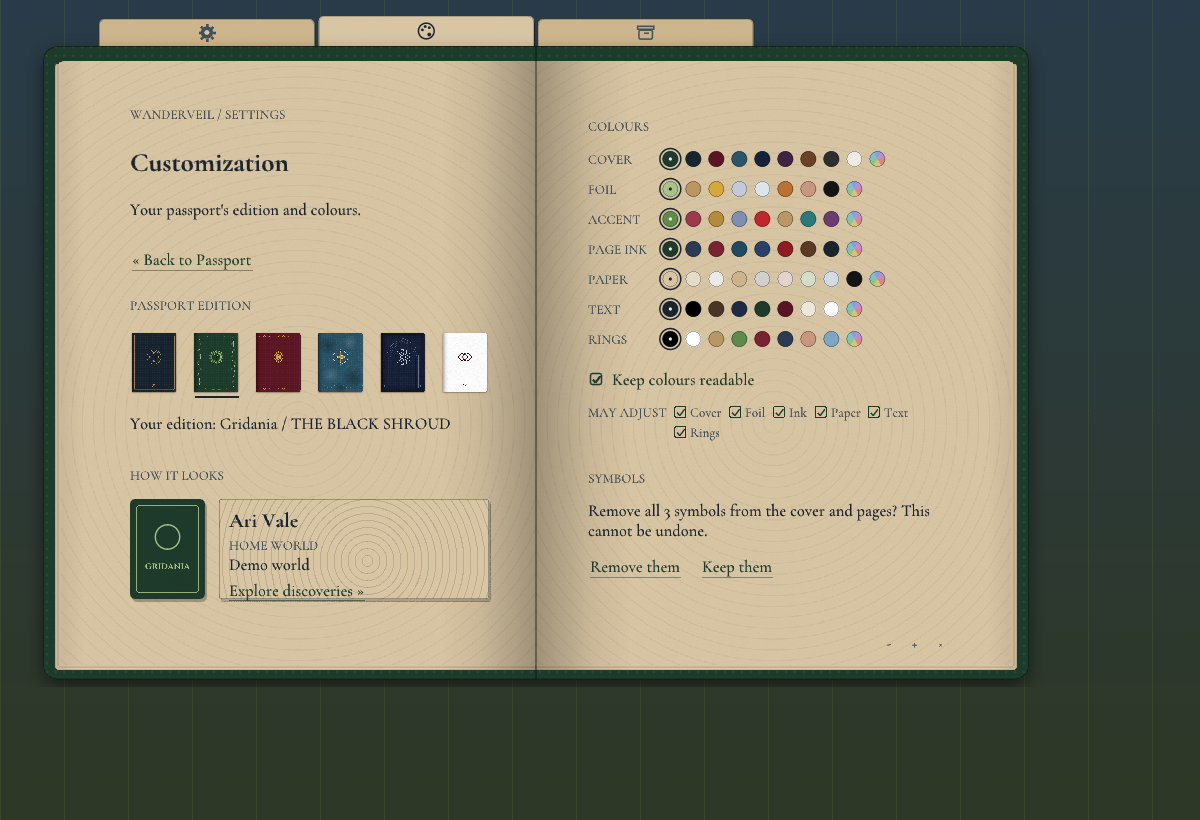
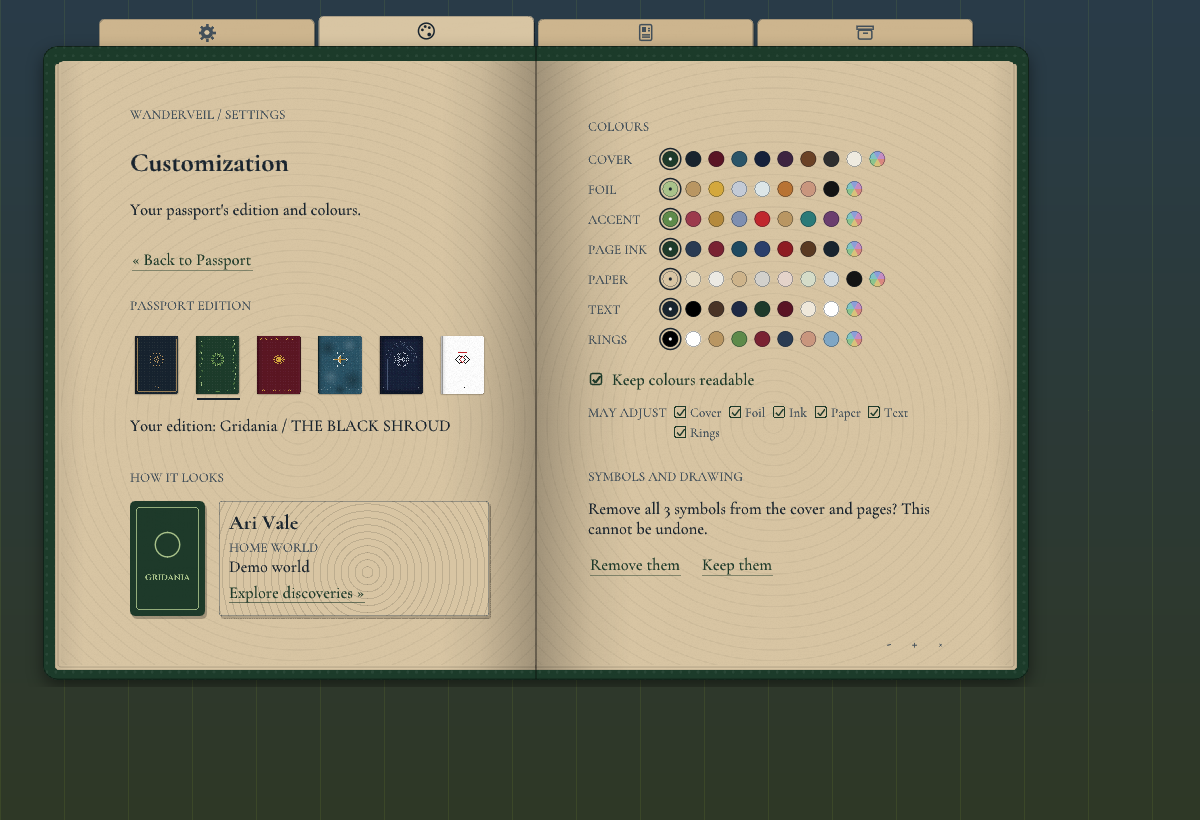
fix(ui): stop the eyedropper crash and keep symbol colours, with ways to clear drawing

diff --git a/src/Wanderveil/UI/BookShell.cs b/src/Wanderveil/UI/BookShell.cs
@@ -43,8 +43,9 @@ internal sealed class BookShell(IBookAssets assets, PassportIdentity profile, IR
     private readonly EditionAssets editions = (EditionAssets)(assets = new EditionAssets(assets, () => identity!.Identity.Edition.Id));
     // An edition picked in Settings, waiting for the holder to confirm the change.
     private string? pendingEdition;
-    // Remove all symbols, picked in Settings and waiting for the holder to confirm it.
+    // Remove all symbols, picked in Settings and waiting for the holder to confirm it; likewise all drawing.
     private bool confirmClearSymbols;
+    private bool confirmClearDrawing;
     // An edition the passport is being exchanged for: the old book slides away, and once it is gone the new
     // edition's book is summoned in its place.
     private string? swapTo;
@@ -104,6 +105,7 @@ internal sealed class BookShell(IBookAssets assets, PassportIdentity profile, IR
     internal string? PendingEdition => pendingEdition;
     // Whether Remove all symbols is waiting for its answer.
     internal bool ConfirmingClearSymbols => confirmClearSymbols;
+    internal bool ConfirmingClearDrawing => confirmClearDrawing;
     // Whether the identity pages are being written on (the footer's Edit / Done).
     internal bool EditingIdentity { get; private set; }
     // How far a page's printed contents are shrunk to fit its paper (1 when they fit as set).
@@ -330,7 +332,7 @@ internal sealed class BookShell(IBookAssets assets, PassportIdentity profile, IR
             riffle.Start(next > Category ? 1 : -1, BookShellRiffle.LeavesFor(1), BookSection.Settings, (int)Category, ReducedMotion);
             Category = next;
             pendingEdition = null;
-            confirmClearSymbols = false;
+            confirmClearSymbols = confirmClearDrawing = false;
         }
         if (chosen is { } tab) Navigate(tab);
         else if (explore) Navigate(BookSection.Discover);
@@ -479,7 +481,7 @@ internal sealed class BookShell(IBookAssets assets, PassportIdentity profile, IR
                             // edition waits for its answer the colours and preview step aside: the change would reset them.
                             if (side != Side.Right) { ImGui.Dummy(new Vector2(0, 16 * type.Scale)); EditionOptions(type); if (pendingEdition == null) colours.Preview(type); }
                             if (side == Side.Single) ImGui.Dummy(new Vector2(0, 24 * type.Scale));
-                            if (side != Side.Left && pendingEdition == null) { colours.Draw(type); SymbolOptions(type); }
+                            if (side != Side.Left && pendingEdition == null) { colours.Draw(type); PlacedOptions(type); }
                             break;
                         case SettingsCategory.Layout:
                             // Left: the identity spread's layout; right: the pages' background and the nation pages.
@@ -924,7 +926,7 @@ internal sealed class BookShell(IBookAssets assets, PassportIdentity profile, IR
         desk.CloseInfo();
         pageEntry = null;
         pendingEdition = null;
-        confirmClearSymbols = false;
+        confirmClearSymbols = confirmClearDrawing = false;
         var distance = (int)to - (int)Section;
         riffle.Start(Math.Sign(distance), BookShellRiffle.LeavesFor(distance), Section, Section == BookSection.Settings ? (int)Category : VisiblePage, ReducedMotion);
         Section = to;
@@ -1055,33 +1057,46 @@ internal sealed class BookShell(IBookAssets assets, PassportIdentity profile, IR
         if (BookControl.Link("Change back to " + before.Name, context)) Exchange(before.Id);
     }
 
-    // The symbols placed on the cover and first pages: how many, and Remove all symbols, which asks first (it cannot
-    // be undone).
-    private void SymbolOptions(UiContext context)
+    // What the holder placed and drew: the symbols on the cover and first pages, and the drawing and writing on the stamp
+    // pages, each with a way to remove it all that asks first (neither can be undone).
+    private void PlacedOptions(UiContext context)
     {
-        var count = holder.Identity.Appearance?.Placed.Items.Length ?? 0;
-        if (count == 0) confirmClearSymbols = false;
-        ImGui.Dummy(new Vector2(0, 20 * context.Scale));
-        UiTypography.Text("SYMBOLS", TextRole.Caption, context, UiTheme.MutedInk);
+        var symbolCount = holder.Identity.Appearance?.Placed.Items.Length ?? 0;
+        var marks = drawing.Marks;
+        var pages = marks.Strokes.Select(stroke => stroke.Sheet).Concat(marks.Texts.Select(text => text.Sheet)).Distinct().Count();
+        if (symbolCount == 0) confirmClearSymbols = false;
+        if (pages == 0) confirmClearDrawing = false;
+        ImGui.Dummy(new Vector2(0, 18 * context.Scale));
+        UiTypography.Text("SYMBOLS AND DRAWING", TextRole.Caption, context, UiTheme.MutedInk);
         ImGui.Dummy(new Vector2(0, 6 * context.Scale));
-        var placed = count == 1 ? "1 symbol" : $"{count} symbols";
-        if (count == 0)
+        var symbolsText = symbolCount == 1 ? "1 symbol" : $"{symbolCount} symbols";
+        var pagesText = pages == 1 ? "1 page" : $"{pages} pages";
+        if (confirmClearSymbols || confirmClearDrawing)
         {
-            UiTypography.Text("None placed. Decorate the cover or the first pages from their own Decorate mark.", TextRole.Body, context, UiTheme.MutedInk);
-            return;
-        }
-        if (confirmClearSymbols)
-        {
-            UiTypography.Text($"Remove all {placed} from the cover and pages? This cannot be undone.", TextRole.Body, context, UiTheme.Ink);
+            UiTypography.Text(confirmClearSymbols ? $"Remove all {symbolsText} from the cover and pages? This cannot be undone." : $"Remove all drawing and writing from {pagesText}? This cannot be undone.", TextRole.Body, context, UiTheme.Ink);
             ImGui.Dummy(new Vector2(0, 6 * context.Scale));
-            if (BookControl.Link("Remove them", context)) { holder.ClearSymbols(); symbols.Stop(); confirmClearSymbols = false; }
+            if (BookControl.Link(confirmClearSymbols ? "Remove them" : "Remove it", context))
+            {
+                if (confirmClearSymbols) { holder.ClearSymbols(); symbols.Stop(); }
+                else { drawing.Stop(); marks.ClearAll(); }
+                confirmClearSymbols = confirmClearDrawing = false;
+            }
             ImGui.SameLine(0, 18 * context.Scale);
-            if (BookControl.Link("Keep them", context)) confirmClearSymbols = false;
+            if (BookControl.Link(confirmClearSymbols ? "Keep them" : "Keep it", context)) confirmClearSymbols = confirmClearDrawing = false;
             return;
         }
-        UiTypography.Text($"{placed} placed on the cover and first pages.", TextRole.Body, context, UiTheme.Ink);
+        if (symbolCount == 0 && pages == 0)
+        {
+            UiTypography.Text("None yet. Decorate the cover and first pages, or draw on the stamp pages, from their own marks.", TextRole.Body, context, UiTheme.MutedInk);
+            return;
+        }
+        var said = symbolCount > 0 && pages > 0 ? $"{symbolsText} placed; drawing on {pagesText}."
+            : symbolCount > 0 ? $"{symbolsText} placed on the cover and first pages." : $"Drawing and writing on {pagesText}.";
+        UiTypography.Text(said, TextRole.Body, context, UiTheme.Ink);
         ImGui.Dummy(new Vector2(0, 6 * context.Scale));
-        if (BookControl.Link("Remove all symbols", context)) confirmClearSymbols = true;
+        if (symbolCount > 0 && BookControl.Link("Remove all symbols", context)) confirmClearSymbols = true;
+        if (symbolCount > 0 && pages > 0) ImGui.SameLine(0, 18 * context.Scale);
+        if (pages > 0 && BookControl.Link("Remove all drawing", context)) confirmClearDrawing = true;
     }
 
     // The pages' background: a small sheet of paper for each, printed with it; the one in use is outlined.

diff --git a/src/Wanderveil/UI/BookShellDrawing.cs b/src/Wanderveil/UI/BookShellDrawing.cs
@@ -83,6 +83,7 @@ internal sealed class BookShellDrawing(PageMarks marks, IBookAssets assets)
     {
         areas.Clear();
         Controls.Clear();
+        ClearChoices.Clear();
     }
 
     // A stamp page whose marks are drawn this frame, measured from the current window (the page's box) and shown as
@@ -126,8 +127,9 @@ internal sealed class BookShellDrawing(PageMarks marks, IBookAssets assets)
                     case DrawingTool.Pencil:
                         if (hovered) ImGui.SetMouseCursor(ImGuiMouseCursor.Hand);
                         if (ImGui.IsItemActivated()) { live.Clear(); liveSheet = area.Sheet; smoothed = at; pressure = 0.8f; live.Add(new InkPoint(at.X, at.Y, pressure)); }
-                        if (ImGui.IsItemActive() && liveSheet == area.Sheet) Follow(at, page);
-                        if (ImGui.IsItemDeactivated() && liveSheet == area.Sheet) EndStroke(pageInk);
+                        // Only a stroke the pencil began goes on (the eyedropper hands the pencil back while the mouse is down).
+                        if (ImGui.IsItemActive() && liveSheet == area.Sheet && live.Count > 0) Follow(at, page);
+                        if (ImGui.IsItemDeactivated() && liveSheet == area.Sheet && live.Count > 0) EndStroke(pageInk);
                         full = hovered && !marks.HasRoomOn(area.Sheet, 1);
                         break;
                     case DrawingTool.Eraser:
@@ -287,7 +289,7 @@ internal sealed class BookShellDrawing(PageMarks marks, IBookAssets assets)
     private Rgb Ink(Vector4 pageInk) => Colour >= Palette.Length ? custom : Palette[Colour].Hex < 0 ? Rgb.Of(pageInk) : Rgb.Hex(Palette[Colour].Hex);
 
     // How wide the toolbar is at this height: tools, palette, sizes, and Undo, with a gap between each group.
-    internal static float ToolbarWidth(float height) => height * (4 * 1.2f + (Palette.Length + 1) * 0.72f + 3 * 0.9f + 1.2f + 3 * 0.4f);
+    internal static float ToolbarWidth(float height) => height * (4 * 1.2f + (Palette.Length + 1) * 0.72f + 3 * 0.9f + 2 * 1.2f + 3 * 0.4f);
 
     // The toolbar across the footer, from left to right of bar: the three tools, the palette, the sizes, and Undo.
     // raised: the toolbar lies over the page (a narrow page), so it gets a paper backing of its own.
@@ -393,6 +395,50 @@ internal sealed class BookShellDrawing(PageMarks marks, IBookAssets assets)
         var tip = turn + new Vector2(-r * 0.95f, r * 0.05f);
         list.AddTriangleFilled(tip + new Vector2(-r * 0.4f, -r * 0.1f), tip + new Vector2(r * 0.4f, -r * 0.1f), tip + new Vector2(0, r * 0.55f), ImGui.GetColorU32(undoInk));
         Controls["Undo"] = undo.Position + undo.Size / 2;
+
+        // Clear: a waste-paper bin offering each page shown; Undo brings a cleared page back.
+        var clear = new UiRect(new Vector2(undo.Max.X, bar.Position.Y), new Vector2(height * 1.2f, height));
+        var shown = areas.OrderBy(area => area.Frame.Position.X).ToArray();
+        ImGui.BeginDisabled(Busy || shown.All(area => !marks.StrokesOn(area.Sheet).Any() && !marks.TextsOn(area.Sheet).Any()));
+        if (BookControl.Draw("Clear", "", clear, context, BookControlStyle.Ink, hint: "Clear a page's drawing and writing")) { Finish(); ImGui.OpenPopup("Clear a page"); }
+        var binInk = ImGui.GetColorU32(ImGui.IsItemHovered() ? UiTheme.Ink : UiTheme.MutedInk);
+        ImGui.EndDisabled();
+        Bin(list, clear, binInk, context);
+        Controls["Clear"] = clear.Position + clear.Size / 2;
+        if (PaperColours.Begin("Clear a page", context))
+        {
+            try
+            {
+                ImGui.TextUnformatted("Clear the drawing and writing on");
+                foreach (var (area, index) in shown.Select((area, index) => (area, index)))
+                {
+                    var marked = marks.StrokesOn(area.Sheet).Any() || marks.TextsOn(area.Sheet).Any();
+                    var name = shown.Length == 1 ? "this page" : index == 0 ? "the left page" : "the right page";
+                    ImGui.BeginDisabled(!marked);
+                    if (ImGui.Selectable(name)) { marks.ClearSheet(area.Sheet); ImGui.CloseCurrentPopup(); }
+                    ImGui.EndDisabled();
+                    ClearChoices[index] = ImGui.GetItemRectMin() + ImGui.GetItemRectSize() / 2;
+                }
+                ImGui.TextDisabled("Undo brings it back.");
+            }
+            finally { PaperColours.End(); }
+        }
+    }
+
+    // For checks: where each choice of the Clear popup was drawn (0 the left or only page, 1 the right).
+    internal Dictionary<int, Vector2> ClearChoices { get; } = [];
+
+    // A small bin: a lid, and a body narrowing to its foot, with two ribs.
+    private static void Bin(ImDrawListPtr list, UiRect cell, uint ink, UiContext context)
+    {
+        var centre = cell.Position + cell.Size / 2;
+        var r = cell.Size.Y * 0.3f;
+        var line = MathF.Max(1f, 1.3f * context.Scale);
+        list.AddLine(centre + new Vector2(-r, -r * 0.7f), centre + new Vector2(r, -r * 0.7f), ink, line);
+        list.AddLine(centre + new Vector2(-r * 0.3f, -r), centre + new Vector2(r * 0.3f, -r), ink, line);
+        list.AddQuad(centre + new Vector2(-r * 0.8f, -r * 0.5f), centre + new Vector2(r * 0.8f, -r * 0.5f), centre + new Vector2(r * 0.6f, r), centre + new Vector2(-r * 0.6f, r), ink, line);
+        list.AddLine(centre + new Vector2(-r * 0.22f, -r * 0.25f), centre + new Vector2(-r * 0.18f, r * 0.75f), ink, line);
+        list.AddLine(centre + new Vector2(r * 0.22f, -r * 0.25f), centre + new Vector2(r * 0.18f, r * 0.75f), ink, line);
     }
 
     // A pencil (a slanted shaft with a tip), an eraser (a slanted block), or writing (a small "Aa").

diff --git a/src/Wanderveil/UI/BookShellSymbols.cs b/src/Wanderveil/UI/BookShellSymbols.cs
@@ -35,7 +35,7 @@ internal sealed class BookShellSymbols(PassportProfile holder, IBookAssets asset
     private readonly record struct Area(string Surface, UiRect Bounds);
 
     // From: the index of a placed symbol being moved, or -1 for a new one from the sheet.
-    internal sealed record Carry(string Symbol, int From, float Rotation, float Size, bool Held);
+    internal sealed record Carry(string Symbol, int From, float Rotation, float Size, bool Held, Rgb? Colour = null);
 
     internal bool Decorating { get; private set; }
     internal bool SheetOpen { get; private set; }
@@ -109,17 +109,22 @@ internal sealed class BookShellSymbols(PassportProfile holder, IBookAssets asset
         if (!Decorating || Carrying != null || SheetOpen || holder.Identity.Appearance?.Symbols is not { } layer) return;
         foreach (var area in areas)
         {
+            // A page's handles lie in a window of their own over its content; the cover has no content window, so its
+            // handles go in the book's own window, after the cover's marks (which so keep their clicks).
+            var own = area.Surface != SymbolSurface.Cover;
             ImGui.SetCursorScreenPos(area.Bounds.Position);
             ImGui.PushStyleVar(ImGuiStyleVar.WindowPadding, Vector2.Zero);
+            ImGui.PushID("Symbols " + area.Surface);
             try
             {
-                if (!ImGui.BeginChild("Symbols " + area.Surface, area.Bounds.Size, false, ImGuiWindowFlags.NoBackground | ImGuiWindowFlags.NoScrollbar | ImGuiWindowFlags.NoScrollWithMouse | ImGuiWindowFlags.NoSavedSettings)) continue;
+                if (own && !ImGui.BeginChild("Symbols " + area.Surface, area.Bounds.Size, false, ImGuiWindowFlags.NoBackground | ImGuiWindowFlags.NoScrollbar | ImGuiWindowFlags.NoScrollWithMouse | ImGuiWindowFlags.NoSavedSettings)) { ImGui.EndChild(); continue; }
                 // Top first, so the symbol drawn on top is the one a click reaches.
                 for (var index = layer.Items.Length - 1; index >= 0; index--)
                     if (layer.Items[index].Surface == area.Surface) Symbol(index, layer.Items[index], area, context);
                 if ((uint)colourTarget < (uint)layer.Items.Length && layer.Items[colourTarget].Surface == area.Surface) ColourPopup(layer.Items[colourTarget], area, context);
+                if (own) ImGui.EndChild();
             }
-            finally { ImGui.EndChild(); ImGui.PopStyleVar(); }
+            finally { ImGui.PopID(); ImGui.PopStyleVar(); }
         }
     }
 
@@ -256,7 +261,7 @@ internal sealed class BookShellSymbols(PassportProfile holder, IBookAssets asset
 
     private void PickUp(int index, PlacedSymbol placed, bool held)
     {
-        Carrying = new Carry(placed.Symbol, index, placed.Rotation, placed.Size, held);
+        Carrying = new Carry(placed.Symbol, index, placed.Rotation, placed.Size, held, placed.Colour);
         SheetOpen = false;
     }
 
@@ -353,7 +358,7 @@ internal sealed class BookShellSymbols(PassportProfile holder, IBookAssets asset
 
         // The symbol in hand, in a window of its own above the surfaces, with a soft shadow beneath it.
         var size = carry.Size * (under?.Bounds.Size.X ?? lastWidth);
-        var colour = under?.Surface == SymbolSurface.Cover ? UiTheme.Foil : UiTheme.EditionInk;
+        var colour = carry.Colour?.Vector ?? (under?.Surface == SymbolSurface.Cover ? UiTheme.Foil : UiTheme.EditionInk);
         ImGui.SetCursorScreenPos(window.Position);
         ImGui.PushStyleVar(ImGuiStyleVar.WindowPadding, Vector2.Zero);
         try
@@ -376,7 +381,7 @@ internal sealed class BookShellSymbols(PassportProfile holder, IBookAssets asset
     private void Put(Carry carry, Area area, Vector2 mouse)
     {
         var at = SymbolArt.At(mouse, carry.Size, area.Bounds);
-        var placed = new PlacedSymbol(carry.Symbol, area.Surface, at.X, at.Y, carry.Rotation, carry.Size);
+        var placed = new PlacedSymbol(carry.Symbol, area.Surface, at.X, at.Y, carry.Rotation, carry.Size, carry.Colour);
         if (carry.From >= 0) holder.ReplaceSymbol(carry.From, placed);
         // A new one goes on top, and the sheet comes back for the next.
         else { holder.AddSymbol(placed); SheetOpen = true; }

diff --git a/tests/Wanderveil.UiChecks/SymbolChecks.cs b/tests/Wanderveil.UiChecks/SymbolChecks.cs
@@ -163,10 +163,11 @@ internal static class SymbolChecks
         book.Frames(2);
         check(symbols.Decorating && symbols.ColourSwatches.Count == 0, "Escape on a symbol's colours does more than close them.");
 
-        // A drag carries the sparkle (now on top) across to the map page.
+        // A drag carries the sparkle (now on top, Blue) across to the map page, keeping its colour.
         var sparkle = profile.Identity.Appearance!.Placed.Items.Length - 1;
         book.Drag(symbols.Handles[sparkle].Body, right.Position + right.Size * new Vector2(0.3f, 0.2f));
         check(profile.Identity.Appearance!.Placed.Items.All(symbol => symbol.Surface == "nation-map") && book.Shell.VisiblePage == 0, "Dragging a symbol does not carry it to the other page.");
+        check(profile.Identity.Appearance!.Placed.Items.Single(symbol => symbol.Symbol == "sparkle").Colour == Rgb.Hex(0x2F4F8A), "Moving a symbol loses its colour.");
 
         // Its × takes it off.
         book.Click(symbols.Handles[profile.Identity.Appearance!.Placed.Items.Length - 1].Remove);
@@ -214,6 +215,12 @@ internal static class SymbolChecks
         book.Click(symbols.SheetCells["sparkle"]);
         book.Click(cover.Position + cover.Size * new Vector2(0.2f, 0.84f));
         check(profile.Identity.Appearance?.Placed.CountOn(SymbolSurface.Cover) == 2 && !book.Shell.IsBookOpen, "Symbols are not placed on the cover, or a click opens the book.");
+        // With symbols on the cover, its marks still take clicks: the left-most (the sheet) opens the sheet again.
+        book.Key(ImGuiKey.Escape);
+        check(!symbols.SheetOpen, "Escape does not put the cover's sheet away.");
+        for (var x = cover.Position.X + 8; x < cover.Max.X && !symbols.SheetOpen; x += 6)
+            if (book.ClickControl(new Vector2(x, band))) break;
+        check(symbols.SheetOpen && symbols.Decorating, "The cover's marks do not take clicks while symbols are on it.");
         book.Key(ImGuiKey.Escape);
         book.Key(ImGuiKey.Escape);
         check(!symbols.Decorating, "Escape does not end decorating the cover.");
@@ -267,6 +274,18 @@ internal static class SymbolChecks
         book.ClickControl(Last()!.Value);
         check(profile.Identity.Appearance?.Symbols == null && !book.Shell.ConfirmingClearSymbols && book.Shell.PageOverflow == 0, "Remove them does not clear every symbol.");
         book.Save(artifacts, "symbols-cleared.bmp");
+
+        // Remove all drawing, below: it asks first, then takes every page's marks, for good.
+        var marks = book.Shell.Drawing.Marks;
+        marks.AddStroke(new Wanderveil.Features.Drawing.InkStroke(0, Rgb.Hex(0x3A3D44), 0.006f, [new(0.1f, 0.1f, 1f), new(0.5f, 0.5f, 1f)]));
+        marks.SetText(null, new Wanderveil.Features.Drawing.PageText(3, "A note", 0.2f, 0.2f, 0.05f, Rgb.Hex(0x3A3D44)));
+        book.Frames(3);
+        book.ClickControl(Last()!.Value);
+        check(book.Shell.ConfirmingClearDrawing && marks.Strokes.Count == 1 && book.Shell.PageOverflow == 0, "Remove all drawing does not ask first, or Customization overflows.");
+        book.Save(artifacts, "drawing-clear-confirm.bmp");
+        book.ClickControl(Last()!.Value);
+        book.ClickControl(Last()!.Value);
+        check(marks.Strokes.Count == 0 && marks.Texts.Count == 0 && !marks.CanUndo, "Remove it does not take every mark for good.");
     }
 
     // On a single page the footer's two decorating controls and the sheet still fit.

diff --git a/tests/Wanderveil.UiChecks/DrawingChecks.cs b/tests/Wanderveil.UiChecks/DrawingChecks.cs
@@ -160,6 +160,15 @@ internal static class DrawingChecks
             book.Click(drawing.Controls["Pencil"]);
             book.Drag(right.Position + right.Size * new Vector2(0.2f, 0.6f), right.Position + right.Size * new Vector2(0.7f, 0.75f));
             check(book.Shell.PageOverflow == 0 && book.Shell.PageOverflowX == 0, "Drawing makes a page scroll.");
+            // The bin clears one page; Undo brings it back.
+            var onLeft = marks.StrokesOn(0).Count();
+            book.Click(drawing.Controls["Clear"]);
+            book.Frames(2);
+            check(drawing.ClearChoices.Count == 2, "The bin does not offer the two pages shown.");
+            book.Click(drawing.ClearChoices[0]);
+            check(!marks.StrokesOn(0).Any() && marks.TextsOn(1).Any(), "Clearing the left page leaves its marks, or clears the right one.");
+            book.Click(drawing.Controls["Undo"]);
+            check(marks.StrokesOn(0).Count() == onLeft, "Undo does not bring a cleared page back.");
             // The paper's left, right, and top margins can be drawn on too (only the foot keeps its margin).
             var margin = new Vector2(page.Position.X - page.Size.X * 0.06f, page.Position.Y - page.Size.X * 0.04f);
             book.Drag(margin, margin + new Vector2(page.Size.X * 0.3f, 0));
@@ -175,6 +184,11 @@ internal static class DrawingChecks
             var onRed = InkPointOnScreen(red.Sheet == 0 ? page : right, red.Points[red.Points.Length / 2]);
             book.Click(onRed);
             check(drawing.Colour == 3 && drawing.Tool == DrawingTool.Pencil, $"The eyedropper does not take up a line's colour and hand back the pencil (colour {drawing.Colour}, {drawing.Tool}).");
+            // Held down and dragged after the pick (the pencil handed back mid-click), nothing breaks and nothing is drawn.
+            var strokesBefore = marks.Strokes.Count;
+            book.Click(drawing.Controls["Eyedropper"]);
+            book.Drag(onRed, onRed + new Vector2(60, 20));
+            check(marks.Strokes.Count == strokesBefore && drawing.Tool == DrawingTool.Pencil && drawing.Colour == 3, "Dragging on from an eyedropper pick draws, or breaks.");
             book.Click(drawing.Controls["Eyedropper"]);
             book.Click(InkPointOnScreen(page, reached.Points[reached.Points.Length / 2]));
             check(drawing.Colour == BookShellDrawing.Palette.Length && drawing.Custom == reached.Colour || drawing.Colour < BookShellDrawing.Palette.Length, "The eyedropper does not take up any line's colour.");

diff --git a/src/Wanderveil/Features/Drawing/PageMarks.cs b/src/Wanderveil/Features/Drawing/PageMarks.cs
@@ -121,6 +121,17 @@ internal sealed class PageMarks
         return Change(strokes, texts.Add(kept));
     }
 
+    // Takes every mark off one page (one step of undo).
+    internal bool ClearSheet(int sheet) => Change(strokes.RemoveAll(stroke => stroke.Sheet == sheet), texts.RemoveAll(text => text.Sheet == sheet));
+
+    // Takes every mark off every page, for good: nothing to undo afterwards.
+    internal bool ClearAll()
+    {
+        var changed = Change(ImmutableList<InkStroke>.Empty, ImmutableList<PageText>.Empty);
+        undo.Clear();
+        return changed;
+    }
+
     // Groups the changes until EndChange into one step of undo (an eraser's drag).
     internal void BeginChange() => group ??= (strokes, texts);
 

diff --git a/tests/README.md b/tests/README.md
@@ -21,12 +21,12 @@ All checks pass locally: 4252 in Debug and 4378 in Release when writing previews
 - Wide/narrow/enlarged/long-content discovery previews, empty list and missing-image details, and scrolling to the end of long details without horizontal overflow.
 - Collecting and placing: one stamp per discovery even after its design is revised, separate design and instance identifiers, demo provenance, source and designer, issue date, invalid discoveries or designs refused; new stamps waiting unplaced, layering by placement, normalized turns, and invalid placements refused. In the real shell at wide and narrow sizes: collecting from the postcard, its link opening the first stamp page with the stamp in hand, a click pressing it where clicked without turning the page, its info page opposite (or over its page) and Escape closing it, and the link of a placed stamp opening its page. Arrange mode: no moving without it, Place stamp picking up the waiting stamp on the page after the last, the wheel turning a carried stamp, a drag across the spread, a knob turning a stamp, carrying across Page Down and by resting at the edge, Escape putting it back, and the × taking a stamp off its page to wait and be placed again; stamps turned round at all four page edges keep their knobs and × on the page, so no page scrolls (this failed before the fix). Page numbers: typing 57, 250, or 0 and Enter opens page 57, 100, or 1, and Escape leaves the page, at wide and narrow sizes; with motion, the jump riffles and lands on its page. With motion and a stamp in hand: no turning back by key or edge past the first stamp page, no Home to the cover, jumps clamped to the stamp pages, and the stamp's size unchanged through a page turn (it grew from 124 to 354 px before the fix). Turning stops at page 100 and blank pages store nothing; Escape handed over by the plugin (with ImGui's Escape ignored) puts a carried stamp back, then closes the passport; 500 stamps over all 96 stamp pages with End and the same per-frame cost at both ends (printed). A failed save says so under the stamp and its **Try saving again** link retries.
 - Settings categories: the tab bar swapping gradually with motion and at once without, Settings opening on General, the third tab opening Layout rather than Echoes and the fourth Saved data, every category fitting its pages wide (previews `settings-*.bmp`) and sideways on a single page, and leaving Settings bringing back working section tabs.
-- Drawing: one-point and off-page strokes refused, strokes kept on the page at a sensible width, rubbing out the middle of a stroke leaving its two ends and a miss changing nothing, an eraser's drag one step of undo, writing tidied, rewritten, emptied away, and cut to its limit, 30 lines and 20,000 samples to a page without spilling to the next, a stroke cut to its limit; the drawing file round-tripping to four decimals with malformed and later files refused, saved to its own file and loaded back; and in the shell Draw beside the stamp control, a drag drawing one stroke without turning the page, the palette and sizes setting the next stroke, the eraser splitting a stroke and Undo and Ctrl+Z taking changes back, a typed line kept on Enter and rewritten, nothing scrolling, the pencil reaching the paper's margins, the custom swatch choosing the custom colour, the eyedropper taking up a red line's colour and handing back the pencil, Escape and turning back ending Draw mode, a page at its limit timed against an empty one, the toolbar fitting a single page, and a drawn page turning. Previews: `drawing-*.bmp`.
+- Drawing: one-point and off-page strokes refused, strokes kept on the page at a sensible width, rubbing out the middle of a stroke leaving its two ends and a miss changing nothing, an eraser's drag one step of undo, writing tidied, rewritten, emptied away, and cut to its limit, 30 lines and 20,000 samples to a page without spilling to the next, a stroke cut to its limit; the drawing file round-tripping to four decimals with malformed and later files refused, saved to its own file and loaded back; and in the shell Draw beside the stamp control, a drag drawing one stroke without turning the page, the palette and sizes setting the next stroke, the eraser splitting a stroke and Undo and Ctrl+Z taking changes back, a typed line kept on Enter and rewritten, nothing scrolling, the pencil reaching the paper's margins, the custom swatch choosing the custom colour, the eyedropper taking up a red line's colour and handing back the pencil and a drag held on from its pick drawing nothing (it once crashed), the bin clearing one page of two and Undo bringing it back, Escape and turning back ending Draw mode, a page at its limit timed against an empty one, the toolbar fitting a single page, and a drawn page turning. Previews: `drawing-*.bmp`.
 - Brush spike (not product code): three grainy-brush approaches on the same synthetic handwriting, previewed side by side (`brush-spike.bmp`) with their vertices and draw time printed as INFO lines; see [the spike notes](../docs/drawing-brush-spike.md).
 - Nation pages: banner left and map right by default, swapping and hiding moving them, one change per arrangement, reset by a change of edition and restored by change back, saved only when not standard with malformed values refused, and in Layout the Map box and Swap sides arranging the spread with the page still fitting. Previews: `layout-nation-*.bmp`.
 - Identity layout: classic by default, an unknown one refused, reset by a change of edition and restored by change back, saved only when not classic (unknown read as classic, a non-name refused), chosen from Layout's sketches with Layout still fitting, and every layout fitting the identity spread at rest and while editing, with the compact card fitting a single page sideways. Previews: `layout-identity-*.bmp`.
 - Page background: the rings by default, one change per pick and an unknown one refused, kept by a colour reset, reset by a change of edition and brought back by change back, saved only when not the rings (an unknown name read as the rings, a non-name refused), and in the shell the Layout category's tiles choosing one with the page still fitting, the plate's rings inked out to the paper under any other background (Plain included) and back with Rings, and a page with a background turning to the end. Previews: `layout-*.bmp`.
-- Symbols: the set filling the plate's cells in order with every edition's crest and emblem, unknown symbols and surfaces left out, values kept on the surface, 24 to a surface (also through the profile, and for one carried onto a full page), a moved symbol coming to the top, symbols cleared by a change of edition and brought back by change back while a colour reset leaves them, the passport file round-tripping symbols as version 3 (version 2 read as it is, unknown entries left out, malformed ones and version 4 refused), and in the shell: Decorate on the nation pages opening a sheet of every symbol that fits, a picked symbol placed where clicked with the sheet coming back, Escape putting the sheet away, the knob resizing and turning, a drag carrying a symbol to the other page, × taking one off, Escape ending decorating, Decorate beside Edit on the identity pages, turning to the stamp pages ending it, a held knob showing the symbol turned and larger before it is kept, a symbol's colour dot opening its colours with Red kept and the passport's colour returning it to following, Escape closing those colours alone, the closed cover's Decorate mark with symbols placed there without opening the book, the sheet fitting a single page, and Remove all symbols in Customization asking first, Keep them keeping them, Remove them clearing them, and Customization still fitting. Previews: `symbols-*.bmp`.
+- Symbols: the set filling the plate's cells in order with every edition's crest and emblem, unknown symbols and surfaces left out, values kept on the surface, 24 to a surface (also through the profile, and for one carried onto a full page), a moved symbol coming to the top, symbols cleared by a change of edition and brought back by change back while a colour reset leaves them, the passport file round-tripping symbols as version 3 (version 2 read as it is, unknown entries left out, malformed ones and version 4 refused), and in the shell: Decorate on the nation pages opening a sheet of every symbol that fits, a picked symbol placed where clicked with the sheet coming back, Escape putting the sheet away, the knob resizing and turning, a drag carrying a symbol to the other page, × taking one off, Escape ending decorating, Decorate beside Edit on the identity pages, turning to the stamp pages ending it, a held knob showing the symbol turned and larger before it is kept, a symbol's colour dot opening its colours with Red kept and the passport's colour returning it to following, Escape closing those colours alone, the closed cover's Decorate mark with symbols placed there without opening the book, the sheet fitting a single page, Remove all symbols in Customization asking first, Keep them keeping them, Remove them clearing them, and Customization still fitting, a moved symbol keeping its colour, the cover's marks taking clicks with symbols on the cover, and Remove all drawing asking first and then taking every mark for good. Previews: `symbols-*.bmp`.
 - Colours: `#RRGGBB` parsing and refusal, the edition's own colours untouched, picked text exact when it reads with captions a shade of it and the rings following it, rings taking their own colour (moved, only they, until they show 3:1 on the paper unless kept exact; automatic rings always showing; the Rings box in Settings), the guard moving the paper when text is kept exact and the cloth when foil is, nothing moving when both of a pair are exact, rings and exact parts round-tripping (an unknown part name ignored), white text on black lighting the rings, the guard moving an unreadable text or foil pick and moving nothing when Keep colours readable is off (stored as `readable: false`, kept by the reset), the legibility guard moving only what fails (foil on cloth, ink on paper) while a dark paper stays as picked and turns the text light, text, captions, and ink reading on papers from black through mid greys to white, colours in the passport file and malformed ones refused, colours reset by a change of edition and brought back by change back, the recolouring maths (plate + weight × shift; coverage-weighted halving), the plugin's PNG reader matching Windows' decoder on real plates and reading a weight map, a recoloured Gridania drawn with recoloured plates on the chosen paper, the guilloche rings turning light on black paper, and in Settings the colour rows fitting the page, a swatch click recolouring at once, black paper and wine text guarded, the text's May adjust box moving the paper instead, Settings' plates and text on the same readable paper, the busiest colour section still fitting, then exact once Keep colours readable is unticked on the passport pages while the Settings pages stay readable. The accent: the edition's own until picked, never guarded, saved, recolouring part of Gridania's cover, a new foil recolouring Ul'dah's crest and a new accent Gridania's across the whole plate, and the Accent row picking teal with Customization still fitting. Previews: `colour-*.bmp`. The custom colour picker is not exercised headless.
 - Editions: six with distinct ids, lookup falling back to Eorzea, each edition's ink readable on the paper (4.5:1) and its foil on its cover (3:1), the machine line naming the edition; the passport file round trip with an edition and the one before it, an unchosen edition staying unchosen, version 1 files migrating to Gridania, an unknown edition kept as written, and malformed appearances rejected; a change keeping the previous edition and touching nothing else, and change back swapping them. In the real shell: a new passport opening on the six covers (spread and single page), a click issuing it and closing the book on its cover; in Settings a pick asking first without changing anything, the confirmation fitting the page, confirming, and changing back, with and without motion (with motion the old passport closes and slides away unchanged, the new edition arrives, and it rests closed); with no stamp waiting, no control in the nation pages' footer. Every edition's cover (with and without the open hint), opening spread, and identity spread are saved (`edition-<id>-*.bmp`) and checked for overflow, and every edition's embedded plates match the generated ones byte for byte.
 - Quick page turns: each click in a burst lifts its own leaf behind the last (none cut short), a click back reverses only the newest leaf, bursts forward and back land where they lead, and at most six leaves are in the air; in the real shell with motion, four quick clicks each way (preview `passport-motion-burst.png`).

diff --git a/docs/passport-runtime.md b/docs/passport-runtime.md
@@ -97,7 +97,7 @@ The cover and the first four pages (the nation pages and the identity spread) ca
 
 - **Decorating.** On the first pages the footer offers **Decorate** (beside **Edit** on the identity spread); on the closed cover, a small sparkle mark beside −, +, and × (hover names it **Decorate**), as quiet as they are; while decorating, the cover offers **Done** and the sheet in words. Either opens a sheet of the symbols, laid over the right page (the only page, when narrow) or over the cover. Picking one slides the sheet away with the symbol in hand; a click puts it down where the mouse is, and the sheet comes back for the next. The mouse wheel turns the symbol in hand; Escape or a right click puts it back on the sheet. **Close sheet** (or Escape) puts the sheet away to show the symbols placed: a click picks one up again (or a drag carries it), even to the other page; its round knob turns it (drag round) and resizes it (drag in or out, from 5% to 60% of the page's width), the symbol turning and growing as the knob moves ([held](previews/passport/symbols-knob-held.png)); its × takes it off; and its colour dot (a quarter turn the other way) opens its colours: the passport's own (it then follows the foil or page ink, as by default), graphite and the six inks, or any colour from a picker, which previews on the symbol while dragged ([a symbol's colours](previews/passport/symbols-colour.png)). Escape closes the colours alone. **Done**, Escape, turning on to the stamp pages, or changing section ends decorating; closing the book to its cover carries on decorating there. A symbol stays whole on its page or cover, as a stamp does. Each page and the cover hold up to 24.
 - **Edition.** Symbols are part of the appearance: changing edition clears them, and **Change back** brings them back. Resetting colours leaves them.
-- **Removing them all.** Under the colours, Customization says how many symbols are placed and offers **Remove all symbols**. It asks first (*Remove all 3 symbols from the cover and pages? This cannot be undone.*), answered by **Remove them** or **Keep them**. [The confirmation](previews/passport/symbols-clear.png).
+- **Removing them all.** Under the colours, Customization's **Symbols and drawing** says what is placed and drawn, and offers **Remove all symbols** and **Remove all drawing** (each only when there is something to remove). Each asks first (*Remove all 3 symbols from the cover and pages? This cannot be undone.*), answered by **Remove them** or **Keep them** (**Remove it** or **Keep it** for drawing, which also forgets Draw mode's undo, so the warning holds). [Symbols](previews/passport/symbols-clear.png), [drawing](previews/passport/drawing-clear.png). A moved symbol keeps its own colour. On the closed cover, the symbols' handles are drawn in the book's own window, so the cover's marks still take clicks with symbols near them.
 
 Previews: [the sheet](previews/passport/symbols-sheet.png), [decorating](previews/passport/symbols-decorating.png), [placed on the pages](previews/passport/symbols-pages.png), [on Ul'dah's cover](previews/passport/symbols-cover.png). The symbol plate (`symbols.png`, a 6 × 4 grid of white masks with half and quarter copies, about 0.3 MB) is generated by `tools/passport-art` from the crests and emblems and `svg/symbols.svg`; the client tints it as it draws.
 
@@ -147,6 +147,7 @@ The stamp pages can be drawn and written on (the nation and identity pages canno
 - **Text** (*Aa*): click a page and type a line in the handwriting face; Enter or clicking away keeps it, Escape leaves it as it was. Clicking a line rewrites it; emptying it takes it away.
 - **Palette**: graphite, the passport's page ink, sepia, red, blue, green, and white, then **any colour** (the wheel), picked in a popup. **Eyedropper**: shows the colour of the line or writing under it and, clicked, takes it up (its palette swatch, or as the custom colour) and hands back the tool you had. **Sizes**: fine, medium, bold (a line's width, the eraser's size, and writing's height).
 - **Undo** (the curved arrow, or Ctrl+Z) takes back the last change, an eraser's whole drag as one; it remembers the session's last 64 changes.
+- **Clear** (the bin) offers the left or right page shown (or this page, when one shows) and clears its drawing and writing; Undo brings it back.
 
 Drawing reaches the paper's left, right, and top edges (a little in from them), not only the page's printed area; the foot keeps its margin for the footer. Existing marks stay where they were: they are measured from the page's printed area and may reach up to a quarter of its width past it. While drawing, the page takes the mouse, so a click never turns the page or moves the book; Page Up and Page Down still turn. **Done**, Escape, turning back to the identity pages, closing the book, or changing section ends Draw mode. Drawing lies above the stamps and never changes them; it turns with the page. Each page holds up to 20,000 pencil samples and 30 lines of writing (120 characters each), the passport 200,000 samples; past that the page says it is full. A page at its limit draws in about 1.9 ms a frame headless (best of three), against 0.02 ms empty. Previews: [drawing](previews/passport/drawing-pages.png), [done](previews/passport/drawing-done.png), [a single page](previews/passport/drawing-narrow.png), [mid-turn](previews/passport/drawing-turn.png). The approach was chosen by [the brush spike](drawing-brush-spike.md).
 
